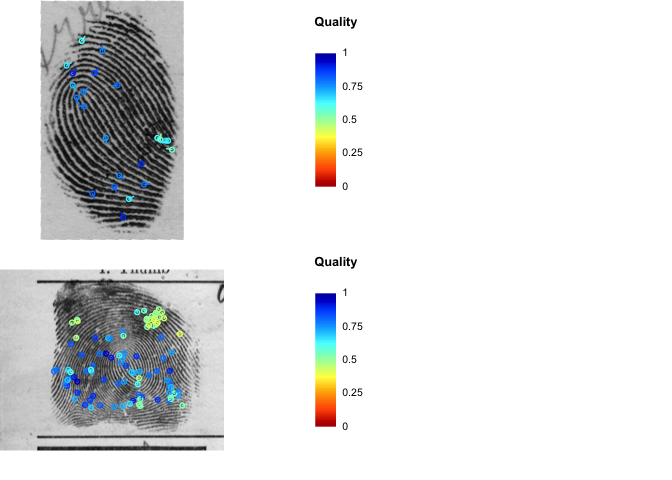
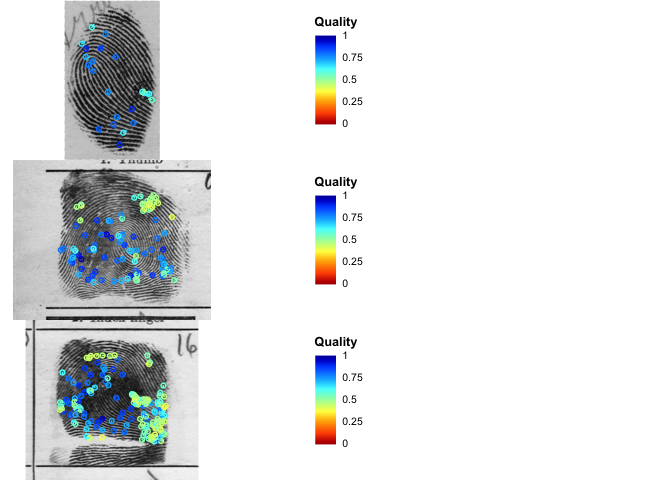
Update readme

Changed region(s): [[0.0, 0.0, 0.3438, 1.0], [0.4688, 0.0625, 0.5312, 0.9375]]

diff --git a/README.md b/README.md
@@ -10,10 +10,12 @@ experimental](https://img.shields.io/badge/lifecycle-experimental-orange.svg)](h
 [![R-CMD-check](https://github.com/forensic-science/fingermatchR/workflows/R-CMD-check/badge.svg)](https://github.com/forensic-science/fingermatchR/actions)
 <!-- badges: end -->
 
-**FingermatchR** provides fingerprint matching tools based on NIST’s
+**fingermatchR** provides fingerprint matching tools based on NIST’s
 MINDTCT and BOZORTH3 algorithms, as released in [NIST’s Biometrics Image
 Software suite
 (NBIS)](https://www.nist.gov/services-resources/software/nist-biometric-image-software-nbis).
+It also provides R bindings to the [FingerJet minutiae extraction
+tool](https://github.com/FingerJetFXOSE/FingerJetFXOSE).
 
 ## Installation
 
@@ -71,7 +73,7 @@ Plot fingerprint image and its binarization with detected minutiae:
 
 ``` r
 # Plain and rolled index fingerprints for the same individual
-plotMinutiae(out[c(1,3), ])
+plotMinutiae(out[1:3, ])
 ```
 
 <img src="man/figures/README-unnamed-chunk-6-1.png" width="100%" />
@@ -124,7 +126,7 @@ Plot fingerprint image and its binarization with detected minutiae:
 
 ``` r
 # Plain and rolled index fingerprints for the same individual
-plotMinutiae(fingerjet[1:2, ])
+plotMinutiae(fingerjet[1:3, ])
 ```
 
 <img src="man/figures/README-unnamed-chunk-10-1.png" width="100%" />
